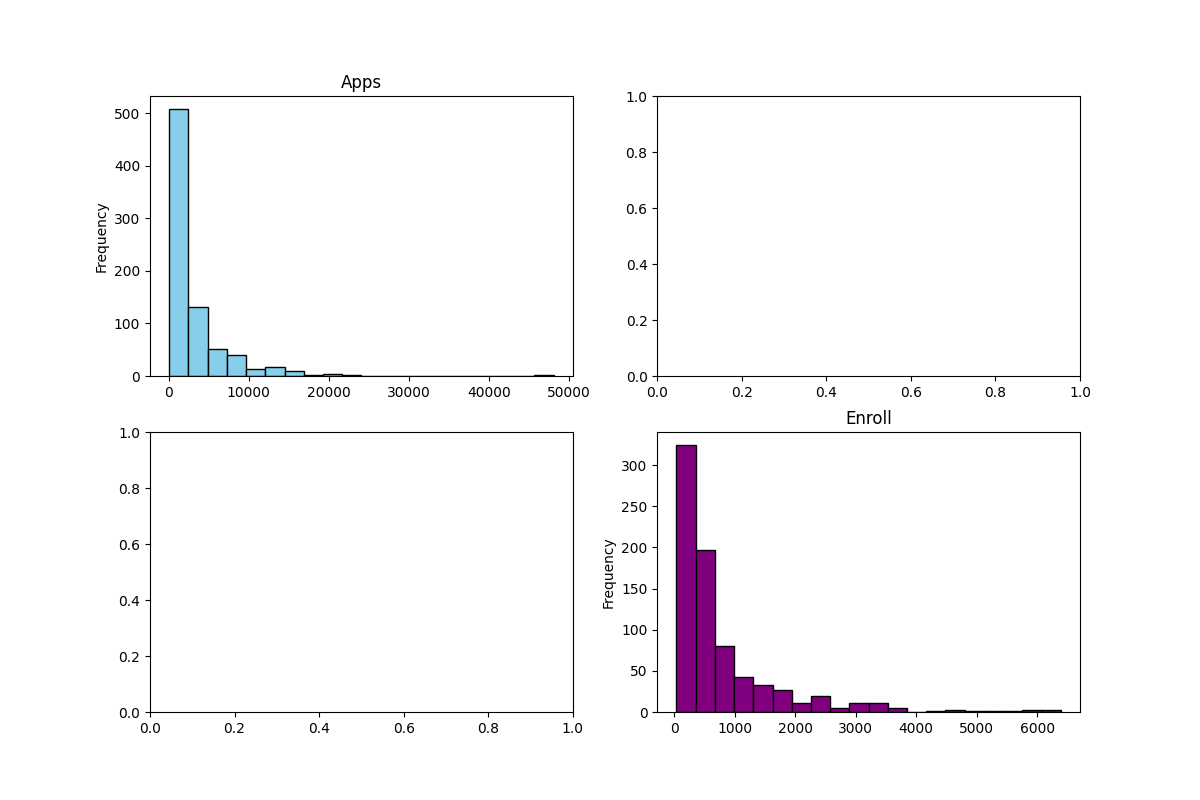
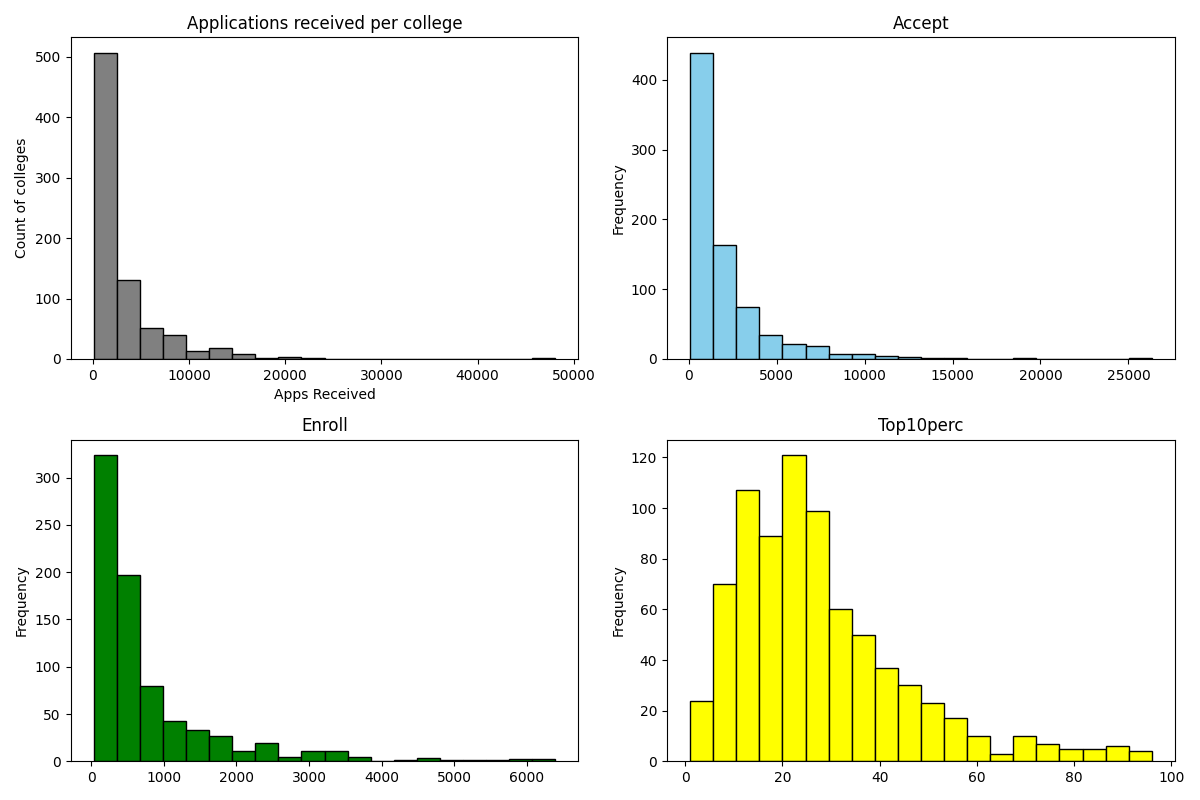
more work histograms

diff --git a/applied/ch2.py b/applied/ch2.py
@@ -46,15 +46,23 @@ plt.ylabel("Out of state tuition $")
 plt.title("")
 plt.savefig("../plots/OutstateVsElite.png")
 
-
 # 8g
 plt.figure()  # Clear old plot info
 fig, axs = plt.subplots(2, 2, figsize=(12, 8))
-axs[0, 0].set_title("Apps")
-axs[1, 1].set_title("Enroll")
+axs[0, 1].set_title("Accept")
+axs[1, 0].set_title("Enroll")
+axs[1, 1].set_title("Top10perc")
 
-college["Apps"].plot.hist(ax=axs[0, 0], bins=20, color="skyblue", edgecolor="black")
-college["Enroll"].plot.hist(ax=axs[1, 1], bins=20, color="purple", edgecolor="black")
+college["Apps"].plot.hist(ax=axs[0, 0], bins=20, color="grey", edgecolor="black")
+axs[0, 0].set_title("Applications received per college")
+axs[0, 0].set_xlabel("Apps Received")
+axs[0, 0].set_ylabel("Count of colleges")
+college["Accept"].plot.hist(ax=axs[0, 1], bins=20, color="skyblue", edgecolor="black")
+college["Enroll"].plot.hist(ax=axs[1, 0], bins=20, color="green", edgecolor="black")
+college["Top10perc"].plot.hist(ax=axs[1, 1], bins=20, color="yellow", edgecolor="black")
+plt.tight_layout()
 plt.savefig("../plots/CollegeHist.png")
 
 plt.close()
+
+## 8f
